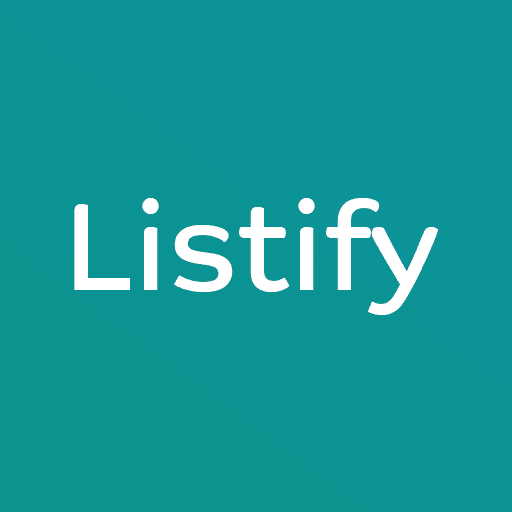
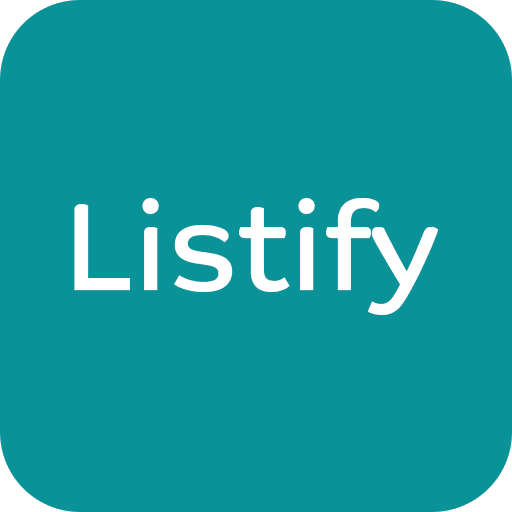
Fiks ikoner

diff --git a/frontend/nuxt.config.js b/frontend/nuxt.config.js
@@ -20,7 +20,7 @@ export default {
       },
       { name: "format-detection", content: "telephone=no" }
     ],
-    link: [{ rel: "icon", type: "image/x-icon", href: "/favicon.ico" }]
+    link: [{ rel: "icon", type: "image/x-icon", href: "/favicon_.ico" }]
   },
   server: {
     port: 3001
@@ -30,8 +30,12 @@ export default {
     linkExactActiveClass: "active-link"
   },
   pwa: {
+    icon: {
+      fileName: "icon.png"
+    },
     manifest: {
-      name: "Listify",
+      name: "Listify - Smart handleliste",
+      short_name: "Listify",
       lang: "nb",
       useWebmanifestExtension: false
     }
@@ -143,7 +147,7 @@ export default {
   // Build Configuration: https://go.nuxtjs.dev/config-build
   //
   build: {
-    cache: true
+    // cache: true
     // babel: {
     //   plugins: [
     //     ["@babel/plugin-proposal-private-methods", { loose: true }],
